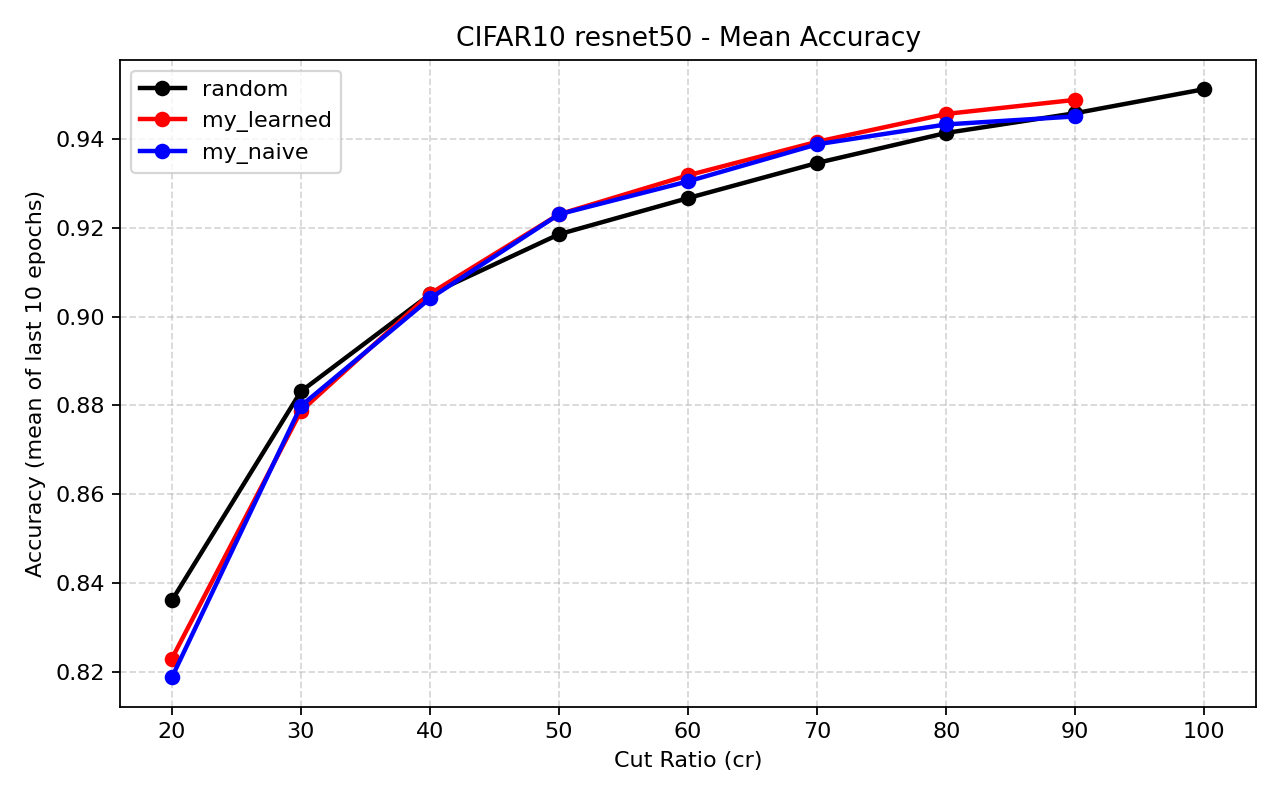
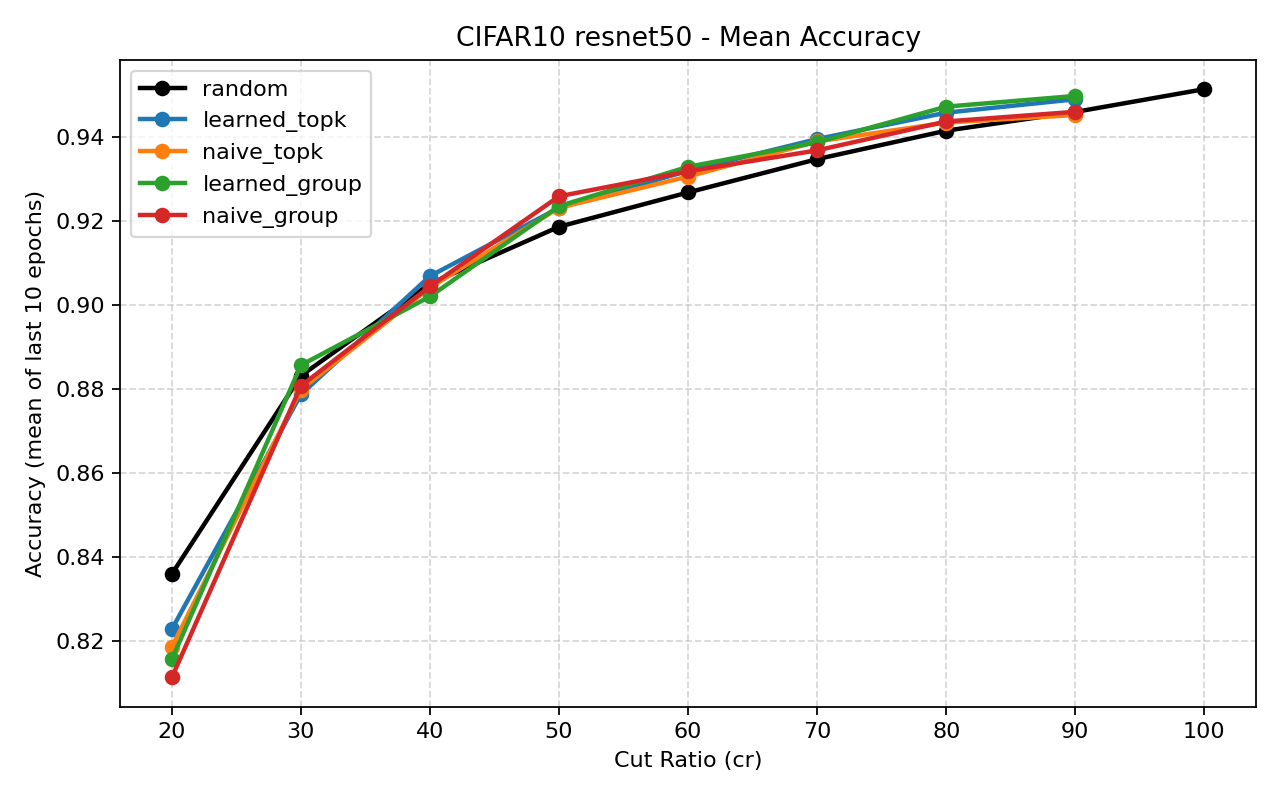
xxx

diff --git a/train_proxy.py b/train_proxy.py
@@ -36,7 +36,7 @@ class IndexedDataset(torch.utils.data.Dataset):
 
 def parse_args() -> argparse.Namespace:
     parser = argparse.ArgumentParser()
-    parser.add_argument("--dataset", type=str, default="cifar10", choices=["cifar10"])
+    parser.add_argument("--dataset", type=str, default="cifar10", choices=["cifar10", "cifar100"])
     parser.add_argument("--data_root", type=str, default=str(Path("data")))
     parser.add_argument("--epochs", type=int, default=100)
     parser.add_argument("--batch_size", type=int, default=128)

diff --git a/draw_acc_curve.py b/draw_acc_curve.py
@@ -23,7 +23,7 @@ def parse_args() -> argparse.Namespace:
     parser.add_argument(
         "--methods",
         nargs="+",
-        default=["random", "my_learned", "my_naive"],
+        default=["random", "learned_topk", "naive_topk", "learned_group", "naive_group"],
         help="Selection methods to compare",
     )
     parser.add_argument(
